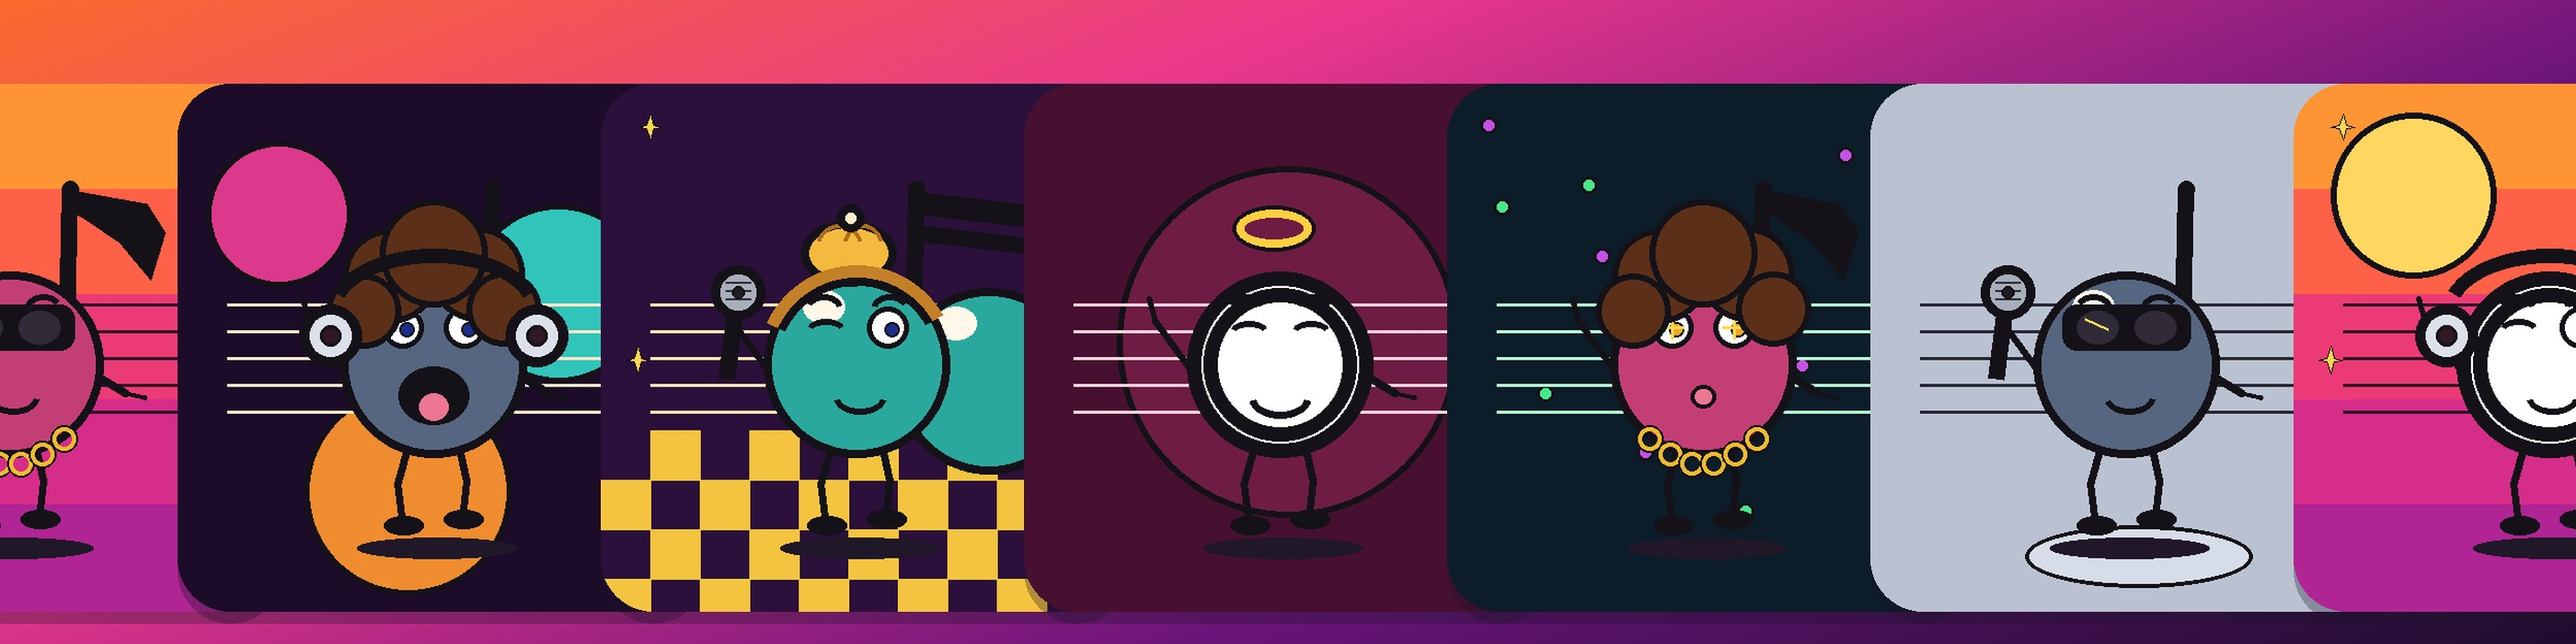
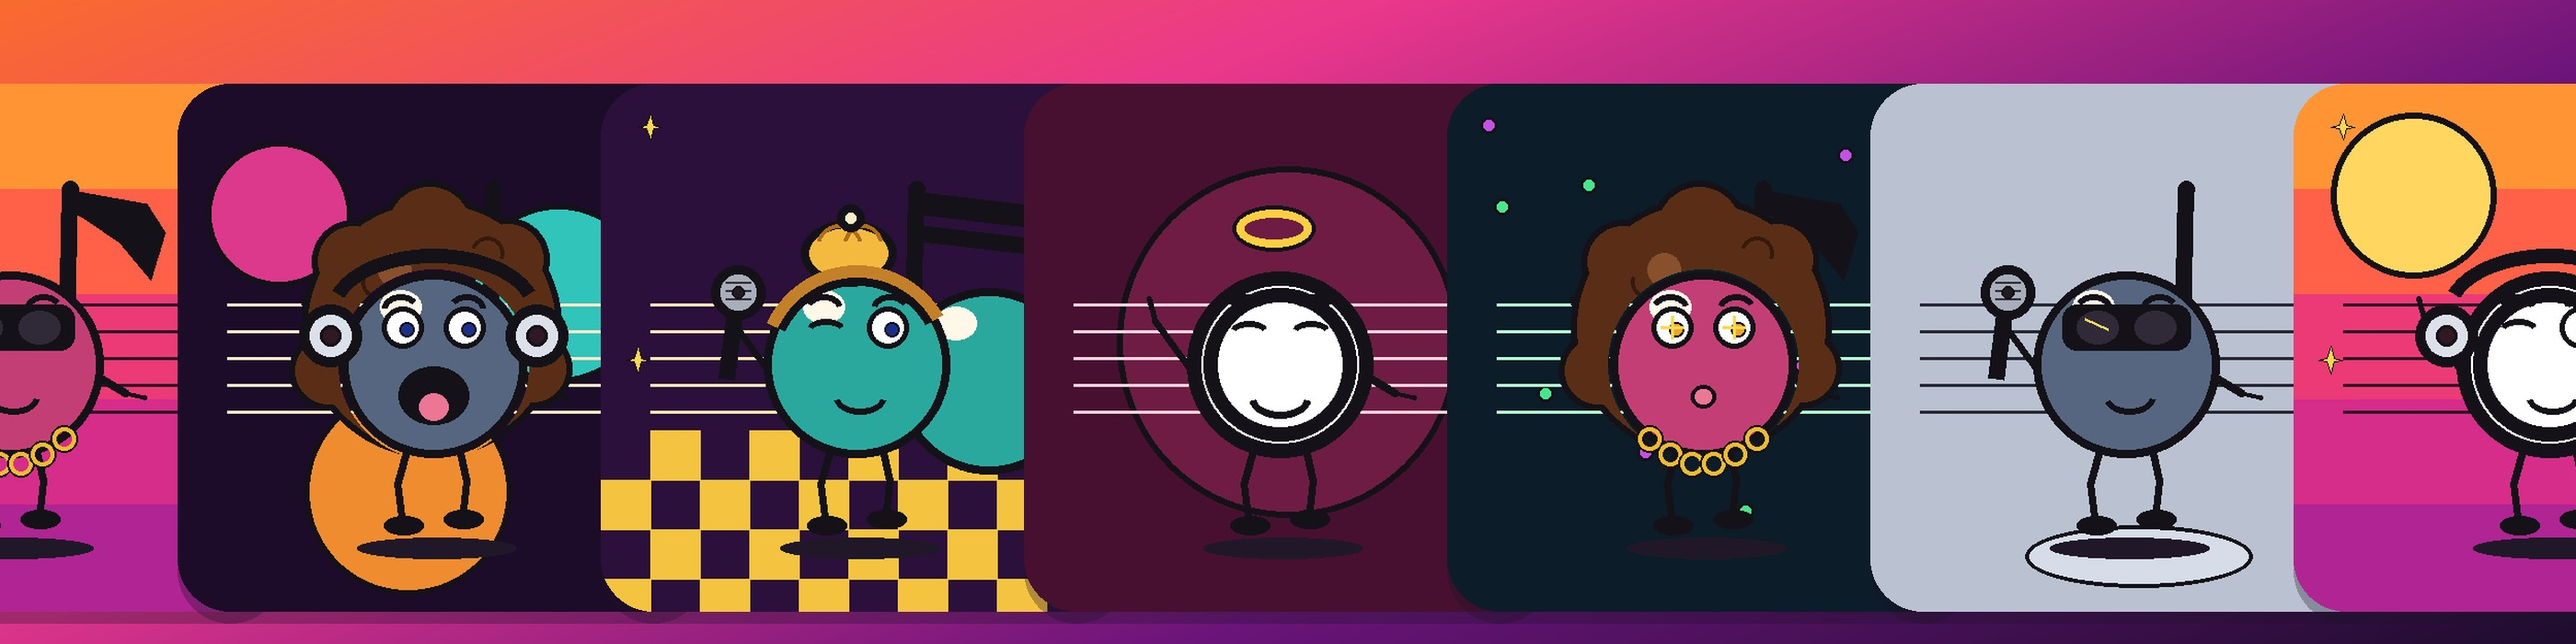
Redraw the Groovy afro as one hair cloud around the note.
Five separate outlined blobs were reading as a pile of circles; the new wrap punches the face open so headphones and the stem still sit cleanly.

diff --git a/src/data/groovy-gallery.ts b/src/data/groovy-gallery.ts
@@ -9,7 +9,7 @@ export const groovySamples: GroovySample[] = [
   {
     id: 1,
     name: "Groovy #1",
-    image: "/groovy-preview/1.gif?v=6",
+    image: "/groovy-preview/1.gif?v=7",
     attributes: [
       { trait_type: "Venue", value: "Sunset Strip" },
       { trait_type: "Note", value: "Eighth" },
@@ -22,7 +22,7 @@ export const groovySamples: GroovySample[] = [
   {
     id: 2,
     name: "Groovy #2",
-    image: "/groovy-preview/2.gif?v=6",
+    image: "/groovy-preview/2.gif?v=7",
     attributes: [
       { trait_type: "Venue", value: "Lava Lamp" },
       { trait_type: "Note", value: "Quarter" },
@@ -35,7 +35,7 @@ export const groovySamples: GroovySample[] = [
   {
     id: 3,
     name: "Groovy #3",
-    image: "/groovy-preview/3.gif?v=6",
+    image: "/groovy-preview/3.gif?v=7",
     attributes: [
       { trait_type: "Venue", value: "Disco Floor" },
       { trait_type: "Note", value: "Beamed" },
@@ -48,7 +48,7 @@ export const groovySamples: GroovySample[] = [
   {
     id: 4,
     name: "Groovy #4",
-    image: "/groovy-preview/4.gif?v=6",
+    image: "/groovy-preview/4.gif?v=7",
     attributes: [
       { trait_type: "Venue", value: "Velvet Night" },
       { trait_type: "Note", value: "Whole" },
@@ -61,7 +61,7 @@ export const groovySamples: GroovySample[] = [
   {
     id: 5,
     name: "Groovy #5",
-    image: "/groovy-preview/5.gif?v=6",
+    image: "/groovy-preview/5.gif?v=7",
     attributes: [
       { trait_type: "Venue", value: "Blacklight" },
       { trait_type: "Note", value: "Eighth" },
@@ -74,7 +74,7 @@ export const groovySamples: GroovySample[] = [
   {
     id: 6,
     name: "Groovy #6",
-    image: "/groovy-preview/6.gif?v=6",
+    image: "/groovy-preview/6.gif?v=7",
     attributes: [
       { trait_type: "Venue", value: "Chrome Wash" },
       { trait_type: "Note", value: "Quarter" },
@@ -87,7 +87,7 @@ export const groovySamples: GroovySample[] = [
   {
     id: 7,
     name: "Groovy #7",
-    image: "/groovy-preview/7.gif?v=6",
+    image: "/groovy-preview/7.gif?v=7",
     attributes: [
       { trait_type: "Venue", value: "Sunset Strip" },
       { trait_type: "Note", value: "Whole" },
@@ -100,7 +100,7 @@ export const groovySamples: GroovySample[] = [
   {
     id: 8,
     name: "Groovy #8",
-    image: "/groovy-preview/8.gif?v=6",
+    image: "/groovy-preview/8.gif?v=7",
     attributes: [
       { trait_type: "Venue", value: "Lava Lamp" },
       { trait_type: "Note", value: "Beamed" },
@@ -113,7 +113,7 @@ export const groovySamples: GroovySample[] = [
   {
     id: 9,
     name: "Groovy #9",
-    image: "/groovy-preview/9.gif?v=6",
+    image: "/groovy-preview/9.gif?v=7",
     attributes: [
       { trait_type: "Venue", value: "Disco Floor" },
       { trait_type: "Note", value: "Eighth" },
@@ -126,7 +126,7 @@ export const groovySamples: GroovySample[] = [
   {
     id: 10,
     name: "Groovy #10",
-    image: "/groovy-preview/10.gif?v=6",
+    image: "/groovy-preview/10.gif?v=7",
     attributes: [
       { trait_type: "Venue", value: "Velvet Night" },
       { trait_type: "Note", value: "Quarter" },
@@ -139,7 +139,7 @@ export const groovySamples: GroovySample[] = [
   {
     id: 11,
     name: "Groovy #11",
-    image: "/groovy-preview/11.gif?v=6",
+    image: "/groovy-preview/11.gif?v=7",
     attributes: [
       { trait_type: "Venue", value: "Blacklight" },
       { trait_type: "Note", value: "Whole" },
@@ -152,7 +152,7 @@ export const groovySamples: GroovySample[] = [
   {
     id: 12,
     name: "Groovy #12",
-    image: "/groovy-preview/12.gif?v=6",
+    image: "/groovy-preview/12.gif?v=7",
     attributes: [
       { trait_type: "Venue", value: "Chrome Wash" },
       { trait_type: "Note", value: "Beamed" },
@@ -165,7 +165,7 @@ export const groovySamples: GroovySample[] = [
   {
     id: 13,
     name: "Groovy #13",
-    image: "/groovy-preview/13.gif?v=6",
+    image: "/groovy-preview/13.gif?v=7",
     attributes: [
       { trait_type: "Venue", value: "Sunset Strip" },
       { trait_type: "Note", value: "Quarter" },
@@ -178,7 +178,7 @@ export const groovySamples: GroovySample[] = [
   {
     id: 14,
     name: "Groovy #14",
-    image: "/groovy-preview/14.gif?v=6",
+    image: "/groovy-preview/14.gif?v=7",
     attributes: [
       { trait_type: "Venue", value: "Lava Lamp" },
       { trait_type: "Note", value: "Eighth" },
@@ -191,7 +191,7 @@ export const groovySamples: GroovySample[] = [
   {
     id: 15,
     name: "Groovy #15",
-    image: "/groovy-preview/15.gif?v=6",
+    image: "/groovy-preview/15.gif?v=7",
     attributes: [
       { trait_type: "Venue", value: "Disco Floor" },
       { trait_type: "Note", value: "Whole" },
@@ -204,7 +204,7 @@ export const groovySamples: GroovySample[] = [
   {
     id: 16,
     name: "Groovy #16",
-    image: "/groovy-preview/16.gif?v=6",
+    image: "/groovy-preview/16.gif?v=7",
     attributes: [
       { trait_type: "Venue", value: "Velvet Night" },
       { trait_type: "Note", value: "Beamed" },

diff --git a/src/app/groovy/gallery/page.tsx b/src/app/groovy/gallery/page.tsx
@@ -55,7 +55,7 @@ export default function GroovyGalleryPage() {
         {extraPreviews.map((id) => (
           <article key={id} className="overflow-hidden rounded-2xl border bg-card">
             <ApngImage
-              src={`/groovy-preview/${id}.gif?v=6`}
+              src={`/groovy-preview/${id}.gif?v=7`}
               alt={`Groovy #${id}`}
               width={512}
               height={512}

diff --git a/src/data/groovy-traits.ts b/src/data/groovy-traits.ts
@@ -14,7 +14,7 @@ export type GroovyTraitCategory = {
 };
 
 /** Bump when APNG layers change so the studio does not keep a stale loop. */
-export const GROOVY_ART_VERSION = "groovy-v6";
+export const GROOVY_ART_VERSION = "groovy-v7";
 
 export const GROOVY_FRAMES = 12;
 export const GROOVY_DURATION_MS = 90;

diff --git a/scripts/build_groovy.py b/scripts/build_groovy.py
@@ -18,7 +18,7 @@ import sys
 from pathlib import Path
 
 import numpy as np
-from PIL import Image, ImageDraw
+from PIL import Image, ImageChops, ImageDraw
 
 ROOT = Path(__file__).resolve().parents[1]
 sys.path.insert(0, str(ROOT / "scripts"))
@@ -114,6 +114,40 @@ def draw_line(draw: ImageDraw.ImageDraw, a: tuple[float, float], b: tuple[float,
 
 def draw_circle(draw: ImageDraw.ImageDraw, x: float, y: float, r: float, fill, outline=INK, width: int = STROKE) -> None:
     draw.ellipse((x - r, y - r, x + r, y + r), fill=fill, outline=outline, width=width)
+
+
+def paint_afro(img: Image.Image, hx: float, hy: float) -> None:
+    """Round hair cloud around the notehead. Face stays the full circle."""
+    fill = (90, 46, 22, 255)
+    deep = (54, 26, 12, 255)
+    lift = (136, 80, 44, 255)
+    hair = Image.new("RGBA", (SIZE, SIZE), (0, 0, 0, 0))
+    hd = ImageDraw.Draw(hair)
+    blobs = (
+        (hx - 2, hy - 36, 120),
+        (hx - 4, hy - 132, 40),
+        (hx - 78, hy - 100, 34),
+        (hx + 72, hy - 102, 34),
+        (hx - 102, hy + 6, 32),
+        (hx + 96, hy + 4, 32),
+    )
+    pad = 6
+    for x, y, r in blobs:
+        hd.ellipse((x - r - pad, y - r - pad, x + r + pad, y + r + pad), fill=INK)
+    for x, y, r in blobs:
+        hd.ellipse((x - r, y - r, x + r, y + r), fill=fill)
+    hd.ellipse((hx - 54, hy - 108, hx - 22, hy - 76), fill=lift)
+    hd.arc((hx - 70, hy - 96, hx - 38, hy - 64), 40, 200, fill=deep, width=4)
+    hd.arc((hx + 36, hy - 124, hx + 68, hy - 92), 200, 20, fill=deep, width=4)
+
+    face = Image.new("L", (SIZE, SIZE), 255)
+    ImageDraw.Draw(face).ellipse(
+        (hx - HEAD_R - 2, hy - HEAD_R - 2, hx + HEAD_R + 2, hy + HEAD_R + 2),
+        fill=0,
+    )
+    _r, _g, _b, a = hair.split()
+    hair.putalpha(ImageChops.multiply(a, face))
+    img.alpha_composite(hair)
 
 
 def draw_staff(draw: ImageDraw.ImageDraw, color: tuple[int, int, int, int], width: int = 3) -> None:
@@ -342,8 +376,7 @@ def paint_topper(kind: str, frame: int) -> Image.Image:
     ey = float(seat["ey"])
     crown = float(seat["crown"])
     if kind == "afro":
-        for ox, oy, r in ((-42, -86, 46), (42, -88, 46), (0, -108, 52), (-68, -52, 36), (68, -54, 36)):
-            draw_circle(draw, hx + ox, hy + oy, r, (92, 48, 24, 255), INK, 6)
+        paint_afro(img, hx, hy)
     elif kind == "shades":
         draw.rounded_rectangle((hx - 62, ey - 22, hx + 62, ey + 22), radius=14, fill=INK)
         draw.ellipse((hx - 48, ey - 16, hx - 8, ey + 16), fill=(48, 42, 56, 255))
@@ -648,7 +681,7 @@ def write_ts_gallery(samples: list[dict]) -> None:
             "  {\n"
             f"    id: {sample['id']},\n"
             f'    name: "{sample["name"]}",\n'
-            f'    image: "{sample["image"]}?v=6",\n'
+            f'    image: "{sample["image"]}?v=7",\n'
             f"    attributes: [\n      {attrs},\n    ],\n"
             "  }"
         )
